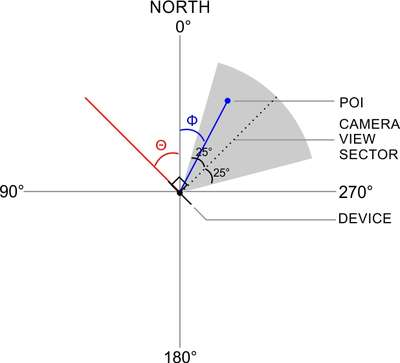
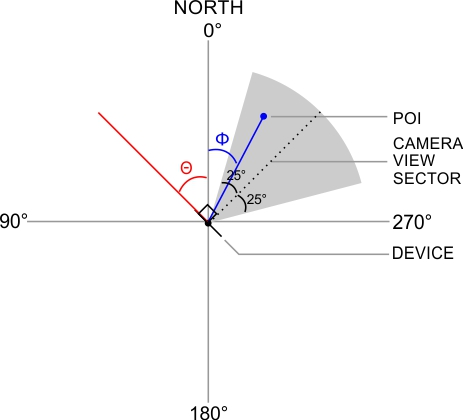
AR Tutorial - Part 1 Update

diff --git a/_layouts/home.html b/_layouts/home.html
@@ -8,7 +8,7 @@ title: Home
 <ul class="post-list"> 
 {% for post in site.posts %}
 	<li>
-		<a class="white-text" href="{{ site.baseurl }}/{{ post.url }}">
+		<a class="white-text" href="{{ site.baseurl }}{{ post.url }}">
 			<div class="card waves-effect waves-light pink white-text">
 				<div class="card-content">
 					<span class="post-meta">{{ post.date | date: "%B %-d, %Y"  }}</span>

diff --git a/_posts/2016-12-22-ar-tutorial-1.md b/_posts/2016-12-22-ar-tutorial-1.md
@@ -11,9 +11,9 @@ We had Microsoft code.fun.do Hackathon in our third semester and I, along with m
 
 Implementing the Augmented Reality was the toughest part, had to search a lot and apply some of my own techniques to implement it. So, I'm writing this tutorial for the ones who want to implement Augmented Reality in an Android app as well as for my own future reference.
 
-Since, the whole tutorial is kinda big, I divided it in two parts, viz. *Theory* and *Implementation*. This part will deal with the underlying principles and the next one will deal with the actual code.
+Since, the whole tutorial is kinda big, I divided it in two parts, viz. **Theory** and **Implementation**. This part will deal with the underlying principles and the next one will deal with the actual code.
 
-The *Theory* covers following topics:
+The **Theory** covers following topics:
 
 + [What is Augmented Reality?](#ar)
 + [What to expect from the Tutorial?](#end_result)
@@ -23,7 +23,7 @@ The *Theory* covers following topics:
 
 ### What is Augmented Reality?
 
-_Augmented Reality (AR)_ is a technology that superimposes a computer-generated image on a user's view of the real world. Don't confuse Augmented Reality with Virtual Reality (VR), the two are different. Virtual Reality is completely virtual whereas Augmented Reality is virtual items imposed in real world. A good example of Augmented Reality could be the Pokemon Go Game.
+**Augmented Reality (AR)** is a technology that superimposes a computer-generated image on a user's view of the real world. Don't confuse Augmented Reality with Virtual Reality (VR), the two are different. Virtual Reality is completely virtual whereas Augmented Reality is virtual items imposed in real world. A good example of Augmented Reality could be the Pokemon Go Game.
 
 <br>
 <p class="image"><img src="{{ site.baseurl }}/images/ar/pokemon_go.jpg"/></p>
@@ -50,11 +50,20 @@ So, in the app, we need to show a point whenever the divice camera points to it.
 <p class="image"><img src="{{ site.baseurl }}/images/ar/birds_eye_view.jpg"/></p>
 
 <br>
-Now, we need to make some relation between these two points. So, we introduce a third point. So, where is this third point? - Where the Starks Rule - _The NORTH_.
+Now, we need to make some relation between these two points. So, we introduce a third point. So, where is this third point? - Where the Starks Rule - **The NORTH** (Coz, The North Remembers ;p).
 
 Let's keep the device location at origin and the North at 0&deg;. Let's call the angle made by the POI at device location as Azitmuth angle(&phi;). Wait, what's Azimuth angle?
 
 > The Azimuth is the angle formed between a reference direction (North) and a line from the observer to a point of interest
+
+But how are we goind to calculate azimuth? The answer is simple trigonometry. Let `dx` be the difference in x-coordinates of the device and POI and let `dy` be the difference in y-coordinate. Then 
+<br>
+<p class="image"><img src="{{ site.baseurl }}/images/ar/tanphi.jpg"/></p>
+
+<br>
+```
+tan(&phi;) = dy/dx   =>   &phi; = tan<sup>-1</sup>(dy/dx)
+```
 
 The device itself will form some angle with the North. Let the angle formed by the plane of device and the North be the Device angle(&theta;). But the device Camera shows a range(sector) of plane. Generally the sector covered by the Camera is 50&deg; to 60&deg;. Let's assume it to be 50&deg;. So, the sector covered by Camera in our plane will be 25&deg; either side of the Device angle(&theta;) i.e. &theta; &plusmn; 25.
 

diff --git a/README.md b/README.md
@@ -1,48 +1,5 @@
 # blog
 
-Welcome to your new Jekyll theme! In this directory, you'll find the files you need to be able to package up your theme into a gem. Put your layouts in `_layouts`, your includes in `_includes` and your sass in `_sass`. To experiment with this code, add some sample content and run `bundle exec jekyll serve` – this directory is setup just like a Jekyll site!
+Hrily's Blog
 
-TODO: Delete this and the text above, and describe your gem
-
-## Installation
-
-Add this line to your Jekyll site's Gemfile:
-
-```ruby
-gem "blog"
-```
-
-And add this line to your Jekyll site's `_config.yml`:
-
-```yaml
-theme: blog
-```
-
-And then execute:
-
-    $ bundle
-
-Or install it yourself as:
-
-    $ gem install blog
-
-## Usage
-
-TODO: Write usage instructions here. Describe your available layouts, includes, and/or sass.
-
-## Contributing
-
-Bug reports and pull requests are welcome on GitHub at https://github.com/[USERNAME]/hello. This project is intended to be a safe, welcoming space for collaboration, and contributors are expected to adhere to the [Contributor Covenant](http://contributor-covenant.org) code of conduct.
-
-## Development
-
-To set up your environment to develop this theme, run `bundle install`.
-
-Your theme is setup just like a normal Jekyll site! To test your theme, run `bundle exec jekyll serve` and open your browser at `http://localhost:4000`. This starts a Jekyll server using your theme. Add pages, documents, data, etc. like normal to test your theme's contents. As you make modifications to your theme and to your content, your site will regenerate and you should see the changes in the browser after a refresh, just like normal.
-
-When your theme is released, only the files in `_layouts`, `_includes`, and `_sass` tracked with Git will be released.
-
-## License
-
-The theme is available as open source under the terms of the [MIT License](http://opensource.org/licenses/MIT).
-
+Live [https://hrily.githib.io/blog]
